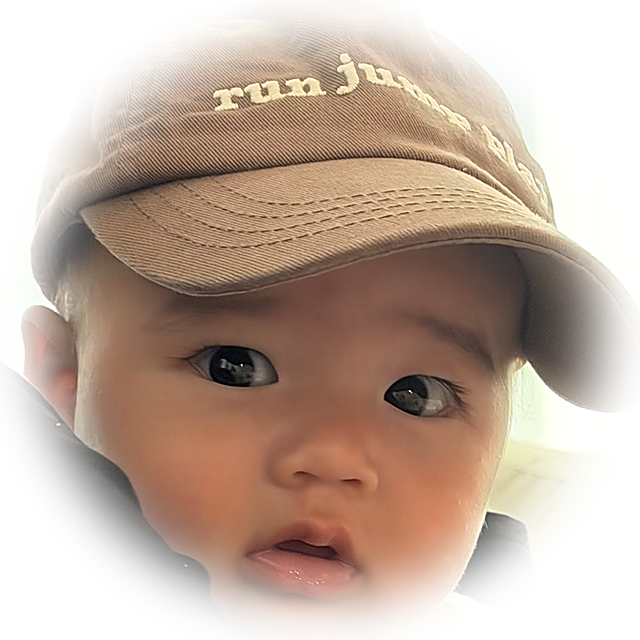
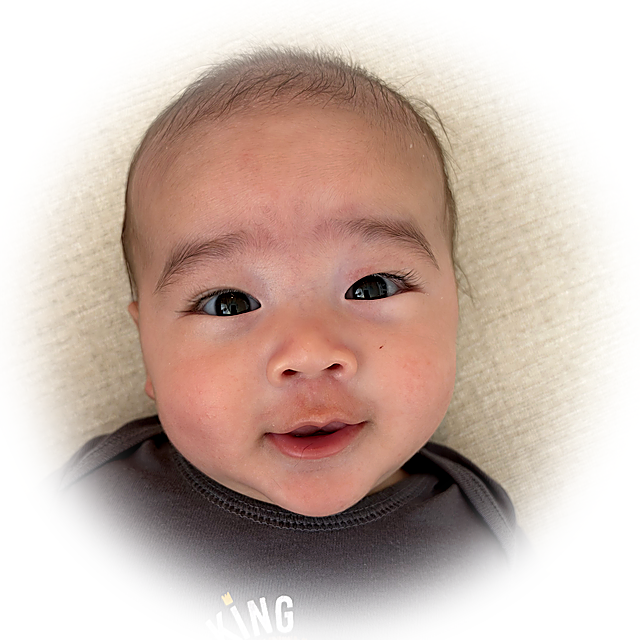
fix: restore original Ace face on daily cheer overlay
Keep new tan-cap photo on PC/mobile banners; cheer asset and
CHEER_SRC use 04-baby.png again. Bump SW/cheer cache to v26.

diff --git a/src/components/daily-cheer-overlay.tsx b/src/components/daily-cheer-overlay.tsx
@@ -159,11 +159,12 @@ export function DailyCheerOverlay() {
               />
               <div className="absolute inset-[7px] overflow-hidden rounded-full bg-[#163f39]/10 ring-2 ring-white/80">
                 <Image
-                  src="/ilbiseo-grandson-cheer.png?v=25"
+                  src="/ilbiseo-grandson-cheer.png?v=26"
                   alt="에이스"
                   width={640}
                   height={640}
                   priority
+                  unoptimized
                   className="size-full object-cover object-center"
                   data-daily-cheer-face
                 />

diff --git a/public/sw.js b/public/sw.js
@@ -1,5 +1,5 @@
 /* 일비서 service worker — offline shell; prefer network so new deploys reach phones */
-const CACHE = "ilbiseo-shell-v25";
+const CACHE = "ilbiseo-shell-v26";
 const PRECACHE = [
   "/manifest.webmanifest",
   "/icons/icon-192.png",

diff --git a/scripts/compose-seamless-banner.py b/scripts/compose-seamless-banner.py
@@ -25,11 +25,13 @@ MOBILE = (1170, 780)
 BG = (235, 230, 223)
 TEAL = (22, 63, 57)
 
-# Single Ace/baby source for banner insets + cheer overlay
+# Banner insets use the new Ace (tan-cap) photo; cheer overlay keeps original baby face
 BABY_SRC = "04-baby-ace-new.png"
+CHEER_SRC = "04-baby.png"
 # Face + tan cap framing (slight right bias away from holder's black sleeve)
 BABY_BIAS = (0.52, 0.30)
-CHEER_BIAS = (0.52, 0.28)
+# Original cheer crop bias (pre Ace-cap replace)
+CHEER_BIAS = (0.50, 0.14)
 
 
 def load(name: str) -> Image.Image:
@@ -390,8 +392,8 @@ def compose_mobile(fam_src: Image.Image) -> Image.Image:
 
 
 def compose_grandson_cheer_face() -> Image.Image:
-    """Circular Ace face for daily cheer overlay — same BABY_SRC as banner."""
-    baby = cover_crop(load(BABY_SRC), 640, 640, bias=CHEER_BIAS)
+    """Circular Ace face for daily cheer overlay — original baby (not banner Ace-cap)."""
+    baby = cover_crop(load(CHEER_SRC), 640, 640, bias=CHEER_BIAS)
     baby = ImageEnhance.Contrast(baby).enhance(1.08)
     baby = ImageEnhance.Brightness(baby).enhance(1.04)
     baby = unsharp(baby, percent=130, radius=1.3)
